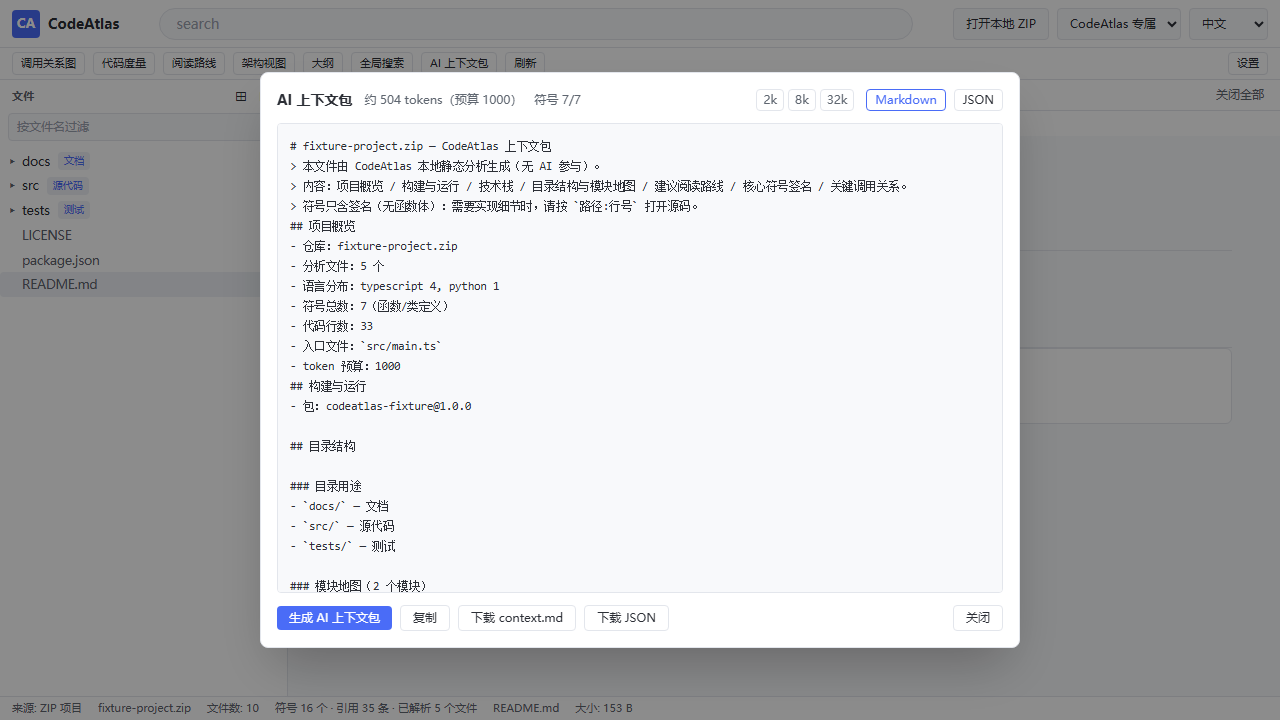
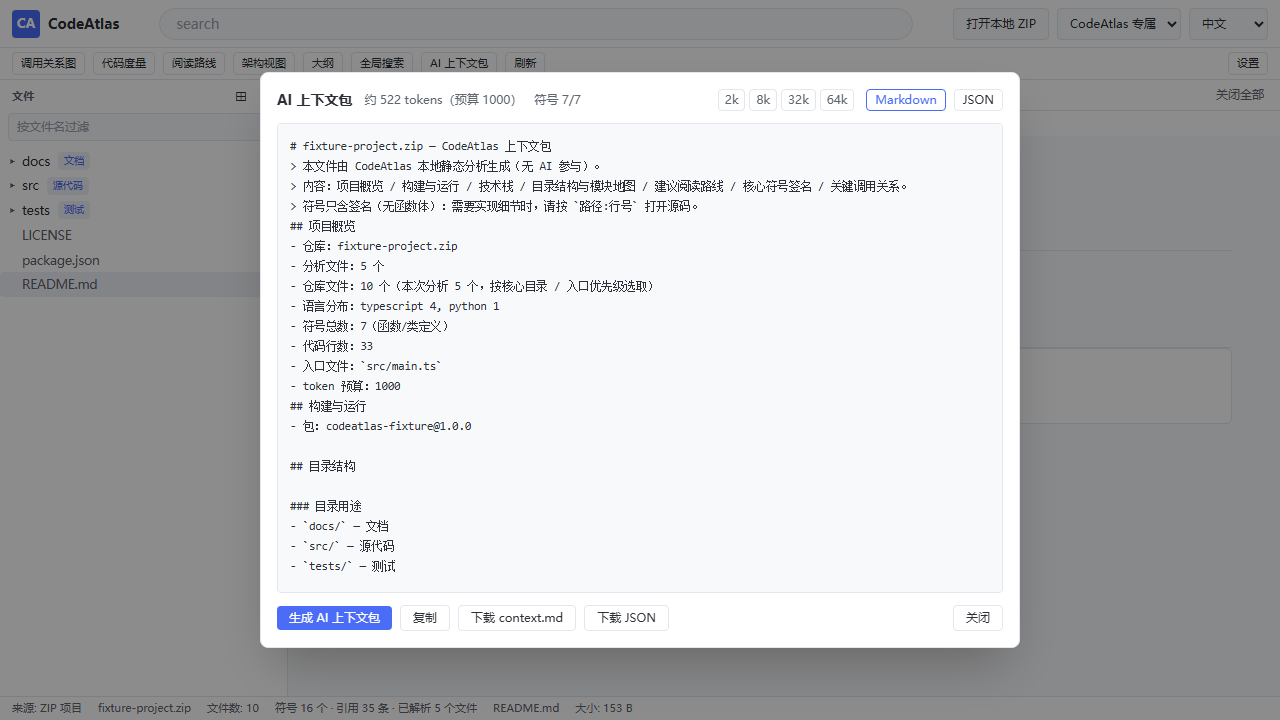
feat(scale): 超大项目适配（5000 文件 + 优先级选取 + 进度节流）
针对数万行 / 数千文件的系统级项目：
- 分析上限 2000 → 5000（全局搜索同步 5000）
- 新增 src/analysis/targets.ts：超限时按「核心目录 / 入口 / 非测试 / 非第三方」
  优先级选取，取代按文件树字典序硬截断（旧行为会整段漏掉后半段模块）；
  结果确定可复现；未超上限原样返回，小项目零行为变化
- 进度回调节流：数千文件不再逐文件 setState（旧实现触发数千次渲染），按 2% 粒度更新
- 上下文包：新增 64k 预算预设；模块地图 30 → 60、关键文件 40 → 80；
  概览标注「仓库文件 N（本次分析 M）」；新增 totalFiles 输入
- 单测 targets.test.ts（6 例）→ 280/280；E2E 31/31
- 文档：limits 2000/5000 同步，README/ACCEPTANCE/PLAN-2.0/CHANGELOG

Changed region(s): [[0.2188, 0.3667, 0.4062, 0.825], [0.5625, 0.1222, 0.6562, 0.1528]]

diff --git a/src/analysis/targets.ts b/src/analysis/targets.ts
@@ -1,0 +1,67 @@
+/**
+ * targets.ts —— 分析目标筛选（面向数万行 / 数千文件的系统级项目）
+ *
+ * 为什么需要：原实现用 `flattenFiles(tree).slice(0, MAX_ANALYSIS_FILES)`，
+ * 即"按文件树字典序取前 N 个"。超大项目一旦超过上限，会**整块漏掉后半段模块**
+ * （例如只剩 kernel/a-c，完全没有 net/、drivers/），比随机还糟。
+ *
+ * 策略（仅在超过上限时启用，小项目保持原样、零行为变化）：
+ *   1. 排除明显的第三方/产物目录（node_modules / third_party / vendor / build …），
+ *      把预算留给项目自身代码；
+ *   2. 按启发式打分排序，取前 N：
+ *      · 目录越浅越重要（入口与基础设施通常在浅层）
+ *      · src / lib / core / include / kernel / drivers / net 等核心目录加权
+ *      · main / index / app / server … 入口文件额外加权
+ *      · test / spec / fixtures / mocks 降权（理解系统时优先级低）
+ *   3. 输出确定（分数相同按路径字典序），保证同仓库多次分析结果一致。
+ */
+
+/** 第三方 / 构建产物 / 生成代码：超出预算时直接排除 */
+const VENDOR = /(^|\/)(node_modules|\.git|dist|build|out|target|coverage|__pycache__|\.venv|venv|third[_-]?party|vendor|external|deps|generated|gen)(\/|$)/i;
+
+/** 核心代码目录：加权 */
+const CORE = /(^|\/)(src|lib|libs|core|app|apps|include|internal|pkg|cmd|module|modules|kernel|drivers|arch|fs|net|mm|sys|base|framework|engine)(\/|$)/i;
+
+/** 测试 / 夹具：降权（不是不能分析，而是不该抢占理解系统结构的名额） */
+const TESTY = /(^|\/)(test|tests|spec|specs|__tests__|e2e|fixture|fixtures|mock|mocks|bench|benchmarks)(\/|$)/i;
+
+/** 入口文件：额外加权 */
+const ENTRY = /(^|\/)(main|index|app|server|cli|bootstrap|entry|init|start)\.[a-z0-9]+$/i;
+
+export interface TargetSelection {
+  /** 实际参与分析的文件（≤ cap） */
+  paths: string[];
+  /** 候选源码文件总数 */
+  total: number;
+  /** 因上限被舍弃的候选数 */
+  excluded: number;
+}
+
+/** 单个文件的启发式得分（越大越优先） */
+export function scorePath(path: string): number {
+  const depth = path.split('/').length - 1;
+  let score = 100 - depth * 4;
+  if (CORE.test(path)) score += 30;
+  if (ENTRY.test(path)) score += 40;
+  if (TESTY.test(path)) score -= 40;
+  return score;
+}
+
+/**
+ * 选取分析目标。
+ * 未超上限时**原样返回**（保证小项目行为与旧版完全一致）。
+ */
+export function selectAnalysisPaths(all: string[], cap: number): TargetSelection {
+  const total = all.length;
+  if (total <= cap) return { paths: all, total, excluded: 0 };
+
+  // 先排第三方；若排完反而不够 N（极端仓库），退回全量池，避免欠采样
+  const real = all.filter((p) => !VENDOR.test(p));
+  const pool = real.length >= cap ? real : all;
+
+  const paths = [...pool]
+    .sort((a, b) => scorePath(b) - scorePath(a) || a.localeCompare(b))
+    .slice(0, cap);
+
+  return { paths, total, excluded: total - paths.length };
+}

diff --git a/tests/unit/targets.test.ts b/tests/unit/targets.test.ts
@@ -1,0 +1,61 @@
+/**
+ * 单测：超大项目的分析目标筛选（targets.ts）
+ *
+ * 关键不变量：
+ *   · 未超上限 → 原样返回（小项目零行为变化）
+ *   · 超上限 → 排除第三方/产物目录，核心目录与入口优先，测试降权
+ *   · 结果确定（同输入同输出）
+ */
+
+import { describe, expect, it } from 'vitest';
+import { scorePath, selectAnalysisPaths } from '../../src/analysis/targets';
+
+describe('selectAnalysisPaths（超大项目目标筛选）', () => {
+  it('未超上限时原样返回（零行为变化）', () => {
+    const all = ['a.ts', 'b.ts'];
+    const r = selectAnalysisPaths(all, 10);
+    expect(r.paths).toEqual(all);
+    expect(r.excluded).toBe(0);
+  });
+
+  it('超上限时排除第三方与产物目录', () => {
+    const all = [
+      ...Array.from({ length: 5 }, (_, i) => `src/m${i}.ts`),
+      ...Array.from({ length: 5 }, (_, i) => `third_party/lib${i}/x.ts`),
+      ...Array.from({ length: 5 }, (_, i) => `node_modules/p${i}/y.ts`),
+    ];
+    const r = selectAnalysisPaths(all, 3);
+    expect(r.paths).toHaveLength(3);
+    for (const p of r.paths) expect(p).not.toMatch(/third_party|node_modules/);
+  });
+
+  it('核心目录与入口优先，测试降权', () => {
+    const all = [
+      'tests/a.test.ts',
+      'tests/b.test.ts',
+      'tests/c.test.ts',
+      'src/core/main.ts',
+      'src/lib/util.ts',
+      'docs/x.ts',
+    ];
+    const r = selectAnalysisPaths(all, 2);
+    expect(r.paths).toContain('src/core/main.ts');
+    expect(r.paths).not.toContain('tests/a.test.ts');
+  });
+
+  it('第三方过多时不欠采样：退化为全量池', () => {
+    const all = ['third_party/a.ts', 'third_party/b.ts', 'third_party/c.ts', 'src/d.ts'];
+    const r = selectAnalysisPaths(all, 3);
+    expect(r.paths).toHaveLength(3);
+  });
+
+  it('结果确定（同输入同输出）', () => {
+    const all = ['z/z.ts', 'a/a.ts', 'b/b.ts'];
+    expect(selectAnalysisPaths(all, 2).paths).toEqual(selectAnalysisPaths(all, 2).paths);
+  });
+
+  it('scorePath：入口 > 核心 > 测试', () => {
+    expect(scorePath('src/main.ts')).toBeGreaterThan(scorePath('src/util.ts'));
+    expect(scorePath('src/util.ts')).toBeGreaterThan(scorePath('tests/util.ts'));
+  });
+});

diff --git a/src/hooks/useCodeAnalysis.ts b/src/hooks/useCodeAnalysis.ts
@@ -26,6 +26,7 @@ import { toClassMermaid, toModuleMermaid, toMermaid } from '../analysis/mermaid'
 import { buildScopeIndex, type ScopeIndex } from '../analysis/scopeGraph';
 import { computeMetrics, healthScore, type FileMetrics } from '../analysis/metrics';
 import { MAX_ANALYSIS_FILES, MAX_GRAPH_NODES, MAX_SOURCE_BYTES } from '../analysis/limits';
+import { selectAnalysisPaths } from '../analysis/targets';
 import { buildReadingPath, type ReadingPath } from '../analysis/readingPath';
 import { buildModuleGraph, groupByLayer, type LayerGroup, type ModuleGraph } from '../analysis/moduleGraph';
 import { findCycles, type CycleReport } from '../analysis/cycles';
@@ -144,7 +145,11 @@ export function useCodeAnalysis() {
 
       const runId = ++runIdRef.current;
       const all = flattenFiles(tree);
-      const targets = all.filter((p) => langOfPath(p) !== null).slice(0, MAX_ANALYSIS_FILES);
+      const candidates = all.filter((p) => langOfPath(p) !== null);
+      // 超上限时按"核心目录 / 入口 / 非测试 / 非第三方"优先选取（小项目原样返回）
+      const targets = selectAnalysisPaths(candidates, MAX_ANALYSIS_FILES).paths;
+      /** 进度节流粒度：大项目下逐文件 setState 会造成数千次渲染 */
+      const progressStep = Math.max(10, Math.ceil(targets.length / 50));
 
       if (targets.length === 0) {
         signatureRef.current = signature;
@@ -210,7 +215,10 @@ export function useCodeAnalysis() {
             failedCount++;
           } finally {
             parsedCount++;
-            if (runId === runIdRef.current) {
+            if (
+              runId === runIdRef.current &&
+              (parsedCount % progressStep === 0 || parsedCount === targets.length)
+            ) {
               setState((prev) => ({
                 ...prev,
                 progress: { parsed: parsedCount, total: targets.length },

diff --git a/src/analysis/contextPack.ts b/src/analysis/contextPack.ts
@@ -27,6 +27,8 @@ export interface ContextPackInput {
   metrics?: FileMetrics[];
   /** 文件树（用于生成带说明的目录树） */
   treePaths: string[];
+  /** 仓库文件总数（可选）：用于在概览里说明"本次分析覆盖率"，超大项目必备 */
+  totalFiles?: number;
   /** 目录用途标注（来自 analysis/directories.ts） */
   dirPurposes?: Map<string, { key: string; confidence: 'rule' | 'heuristic' }>;
   /** 目录用途的中文/本地化文案（由 UI 传入 i18n 结果，保证离线且不硬编码语言） */
@@ -218,7 +220,7 @@ function renderFileTree(
   }
   const moduleLines = [...byModule.entries()]
     .sort((a, b) => b[1].length - a[1].length || a[0].localeCompare(b[0]))
-    .slice(0, 30)
+    .slice(0, 60)
     .map(([m, paths]) => {
       const key = [...paths]
         .sort((a, b) => (fileScores.get(b) ?? 0) - (fileScores.get(a) ?? 0))
@@ -315,6 +317,9 @@ export function generateContextPack(input: ContextPackInput): ContextPack {
     '## 项目概览',
     `- 仓库：${input.repoName}${input.branch ? ` @${input.branch}` : ''}`,
     `- 分析文件：${input.files.length} 个`,
+    input.totalFiles && input.totalFiles > input.files.length
+      ? `- 仓库文件：${input.totalFiles} 个（本次分析 ${input.files.length} 个，按核心目录 / 入口优先级选取）`
+      : '',
     `- 语言分布：${langs}`,
     `- 符号总数：${ranked.length}（函数/类定义）`,
     totalSloc !== undefined ? `- 代码行数：${totalSloc}` : '',
@@ -348,7 +353,7 @@ export function generateContextPack(input: ContextPackInput): ContextPack {
 
   const header = headerParts.filter(Boolean).join('\n');
 
-  const treeBlock = renderFileTree(input, fileScores, 40);
+  const treeBlock = renderFileTree(input, fileScores, 80);
 
   const readingBlock = renderReadingPath(input);
 

diff --git a/src/analysis/limits.ts b/src/analysis/limits.ts
@@ -9,8 +9,12 @@
  * 若后续加入增量分析（N4），这些常量会成为缓存分片粒度。
  */
 
-/** 单次分析参与解析的文件数上限 */
-export const MAX_ANALYSIS_FILES = 2000;
+/**
+ * 单次分析参与解析的文件数上限。
+ * 2000 → 5000（面向数万行 / 数千文件的系统级项目）；超出时不再按字典序硬截断，
+ * 而是由 `targets.ts` 按"核心目录 / 入口 / 非测试 / 非第三方"优先级选取。
+ */
+export const MAX_ANALYSIS_FILES = 5000;
 
 /** 参与解析的单个源文件体积上限（超出则跳过该文件，不影响其它文件） */
 export const MAX_SOURCE_BYTES = 1024 * 1024;
@@ -21,8 +25,11 @@ export const MAX_SOURCE_BYTES = 1024 * 1024;
  */
 export const MAX_GRAPH_NODES = 120;
 
-/** 全局搜索参与的文件数上限（与解析分开计数：搜索不建 AST，开销更低但更吃内存） */
-export const MAX_SEARCH_FILES = 2000;
+/**
+ * 全局搜索参与的文件数上限（与解析分开计数：搜索不建 AST，开销更低但更吃内存）。
+ * 与分析上限同步提到 5000。
+ */
+export const MAX_SEARCH_FILES = 5000;
 
 /** 全局搜索单文件体积上限：正则扫描会把文本整体驻留内存，故低于分析路径 */
 export const MAX_SEARCH_BYTES = 512 * 1024;

diff --git a/src/components/ContextPackDialog.tsx b/src/components/ContextPackDialog.tsx
@@ -98,7 +98,7 @@ export default function ContextPackDialog({
             role="group"
             aria-label={t('common:maxTokens')}
           >
-            {[2000, 8000, 32000].map((b) => (
+            {[2000, 8000, 32000, 64000].map((b) => (
               <button
                 key={b}
                 onClick={() => {

diff --git a/src/components/ProjectView.tsx b/src/components/ProjectView.tsx
@@ -265,6 +265,7 @@ export default function ProjectView({
           index: bundle.index,
           metrics: bundle.metrics,
           treePaths,
+          totalFiles: treePaths.length,
           dirPurposes,
           purposeLabels: dirPurposeLabels,
           maxTokens: usedBudget,

diff --git a/docs/ACCEPTANCE.md b/docs/ACCEPTANCE.md
@@ -33,7 +33,7 @@
 | 里程碑 | 验收标准 | 验证方式 | 结果 |
 |---|---|---|---|
 | **N1** 多语言与规模 | 12 个语言族的定义 / 跳转 / 调用图 / 度量可用 | 单测 `tests/unit/langs.test.ts`（41 例，含 9 种语言真实 AST 断言）；`npm run check:tree-sitter` 逐一解析 14 个语法包 + 共存复解析 | ✅ 14/14 |
-| N1 规模提升 | 2000 文件 / 1 MB / 调用图 120 节点 | 📄 `src/analysis/limits.ts`（上限集中定义） | ✅ |
+| N1 规模提升 | 5000 文件 / 1 MB / 调用图 120 节点；超限时按核心目录 / 入口优先级选取 | 📄 `src/analysis/limits.ts`（上限集中定义）、`src/analysis/targets.ts`（超限筛选，单测 `targets.test.ts`） | ✅ |
 | N1 语法包适配 | 不可用语言必须有实测结论，不能静默失败 | 📄 `scripts/check-tree-sitter.cjs` 的 `EXCLUDED`（Lua / Bash / Scala / Dart / Elm / QL 及原因） | ✅ |
 | **N2** 阅读路线 | 顺序确定可复现，入口优先 | 单测 `tests/unit/readingPath.test.ts`（9 例：角色判定、排序、编号、目录分组、确定性）；E2E `阅读路线：自动排序 + 入口标注 + 点击跳转` | ✅ |
 | N2 命令面板 / 符号搜索 | `Ctrl+K` / `Ctrl+T` 可用且能跳转 | E2E `navigation-panels.spec.ts` 前 3 例；模糊匹配单测 `fuzzy.test.ts`（11 例） | ✅ |
@@ -55,7 +55,7 @@
 | **N5③** 多项目工作区 | 同一窗口打开多个项目，顶部项目标签切换；各项目的浏览标签 / 分析结果 / 搜索结果互不影响；单项目时标签条隐藏（视觉与旧版一致） | 📄 `src/workspace/workspace.ts`（项目列表 / 激活 / 打开 / 关闭 store）、`src/hooks/useWorkspace.ts`、`src/components/ProjectView.tsx` / `ProjectTabs.tsx`、`src/hooks/useLauncher.ts`；单测 `tests/unit/workspace.test.ts`（8 例）；E2E `tests/e2e/workspace.spec.ts`（开两个 ZIP → 出现 2 个项目标签 → 切换 → 关闭回到 1） | ✅ |
 | N5③ 打开语义 | 首个（空）项目就地加载（不新增标签）；已有项目时再打开则追加标签并激活；加载中的项目不被后续打开抢占 | 单测 `workspace.test.ts` 的就地加载 / 追加 / 加载中不抢占用例 | ✅ |
 | **N6** 版本号 2.0.0 | package.json / Cargo.toml / Cargo.lock（codeatlas 包）/ tauri.conf.json / App.tsx 状态栏全部对齐 2.0.0 | 代码审查 + grep 五处 `1.0.0` → `2.0.0`；`npm run check:tree-sitter` 与 `tsc -b` 仍绿 | ✅ |
-| **N6** ABI 升级（web-tree-sitter 0.22 → 0.25） | 运行时与 14 个语法包 ABI 兼容，解析正常、共存复解析正常；前端 / Worker / Rust 编译全绿 | `npm run check:tree-sitter`（14 个语法包 + 共存复解析全绿，LANGUAGE_VERSION=15）；`tsc -b` 绿；单测 270/270；E2E 31/31；`npm run build:exe` 产出 CodeAtlas.exe（10.4 MB）+ CodeAtlas_2.0.0_x64-setup.exe（4.8 MB） | ✅ |
+| **N6** ABI 升级（web-tree-sitter 0.22 → 0.25） | 运行时与 14 个语法包 ABI 兼容，解析正常、共存复解析正常；前端 / Worker / Rust 编译全绿 | `npm run check:tree-sitter`（14 个语法包 + 共存复解析全绿，LANGUAGE_VERSION=15）；`tsc -b` 绿；单测 280/280；E2E 31/31；`npm run build:exe` 产出 CodeAtlas.exe（10.4 MB）+ CodeAtlas_2.0.0_x64-setup.exe（4.8 MB） | ✅ |
 | **N6** 在线场景 E2E | 本机无真实 GitHub 网络时，在线流程（加载仓库 / 搜索）仍被真实执行并断言 | E2E `tests/e2e/github-online.spec.ts`（`page.route` mock `api.github.com` / `raw.githubusercontent.com`，断言文件树 + README 渲染 + 搜索结果 `listbox` + combobox 键盘导航）；`network-whitelist.spec.ts` 在线用例改 mock 驱动、断言仅 GitHub 域，不再 `test.skip` | ✅ |
 | **N6** 可访问性 | 键盘导航 / ARIA / 对比度三项达标 | E2E `tests/e2e/a11y.spec.ts`（对话框焦点陷阱 + Esc + 焦点归还；命令面板 `aria-activedescendant` 随 `↑↓` 变化；文件树 roving tabindex + `tree`/`treeitem` 语义；四套主题次要文本对比度 ≥ WCAG AA 4.5:1）；📄 `src/hooks/useFocusTrap.ts`、`src/components/{CommandPalette,TopBar,FileTree,SettingsDialog,ContextPackDialog}.tsx`、`src/index.css` | ✅ |
 
@@ -65,7 +65,7 @@
 ## 复现命令
 
 ```bash
-# 单元测试（270 个用例，实际数量以 npm test 输出为准）
+# 单元测试（280 个用例，实际数量以 npm test 输出为准）
 npm test
 
 # E2E（11 个 spec / 31 个用例；截图生成到 docs/screenshots/）

diff --git a/CHANGELOG.md b/CHANGELOG.md
@@ -11,7 +11,7 @@
   - 导出规则按语言语义实现：JS 看 `export`、Python 看顶层非 `_` 前缀、Go 看首字母大写、Rust 看 `pub`、Java/C#/Kotlin/Swift 看可见性修饰符、PHP 默认 public（接口成员隐式 public）、C/C++ 看 `static` 与 `public:/private:` 区段、Ruby 看裸 `private`。
   - 调用形态覆盖各语言差异：Java 的 `new` 与构造器调用、C++ 的 `ns::fn()` 与 `new`、C# 的 member access、PHP 的四种调用节点、Ruby 的 `require` 识别为导入且不污染调用图。
   - 各语言的分支/循环/异常节点集合逐一实测后写入 `metrics.ts`（例如 Kotlin 与 Swift 的 `&&` 是独立节点类型、Ruby 的 `and`/`or` 是 `binary` 的运算符字段）。
-- **规模上限提升**：单次分析 400 → **2000** 个文件、单文件 256 KB → **1 MB**；调用图截断阈值 60 → **120** 节点；全局搜索 600 → 2000 个文件。上限集中定义在 `src/analysis/limits.ts`。
+- **规模上限提升**：单次分析 400 → **5000** 个文件（N1 先到 2000，2.0 收口再提到 5000）、单文件 256 KB → **1 MB**；调用图截断阈值 60 → **120** 节点；全局搜索 600 → **5000** 个文件。上限集中定义在 `src/analysis/limits.ts`。超限时不再按字典序硬截断，改由 `src/analysis/targets.ts` 按「核心目录 / 入口 / 非测试 / 非第三方」优先级选取（结果确定），避免整段模块被漏掉。
 - **tree-sitter 自检升级**：`npm run check:tree-sitter` 现在逐一验证全部 14 个语法包，并额外执行「多语法包共存后复解析」检查，可提前发现上游语法包回归。
 - **阅读路线（N2）**：基于依赖图 PageRank + 入/出度角色判定，自动给出「入口 → 枢纽 → 中间层 → 末端」的建议阅读顺序；文件树显示序号角标，面板可一键把路线写入 AI 上下文包。
 - **命令面板（N2）**：`Ctrl/Cmd+K` 统一入口（命令 / 文件 / 符号三类模糊搜索），`Ctrl/Cmd+T` 直达符号定义；模糊匹配自研（子序列 + 连续/词边界加权），零新依赖。
@@ -56,6 +56,11 @@
   - **JSON 限长**：`files` 由全量 `treePaths`（超大项目可达上万 token）改为最多 400 条 + `filesTotal`，避免架空 token 预算。
   - **预算预设**：上下文包对话框新增 2k / 8k / 32k 一键切换（持久化到配置并立即按新预算重生成），无需进设置页。
   - 新增 4 个单测（模块地图 / manifest 解析 / 入口文件 / JSON 限长），四要素章节与既有验收断言保持不变。
+- **超大项目适配（数万行 / 数千文件）**：
+  - **分析上限 2000 → 5000**（全局搜索同步 5000）；超限时由 `src/analysis/targets.ts` 按「核心目录 / 入口文件 / 非测试 / 非第三方」优先级选取，**不再按文件树字典序硬截断**（旧行为会整块漏掉后半段模块），结果确定可复现。
+  - **进度回调节流**：数千文件时不再每解析一个文件就 `setState`（旧实现会触发数千次渲染），改为按 2% 粒度更新。
+  - 上下文包：新增 **64k** 预算预设；模块地图上限 30 → **60** 个模块、关键文件 40 → **80** 个；概览标注「仓库文件 N 个（本次分析 M 个）」，超大项目可直接看出覆盖率。
+  - 单测 `tests/unit/targets.test.ts`（6 例：未超上限原样返回 / 排除第三方 / 核心与入口优先 / 不欠采样 / 确定性 / 打分单调）。
 - **可访问性（N6 完成）**：键盘导航 / ARIA / 对比度三项系统性补齐。
   - **对话框焦点陷阱**：新增 `useFocusTrap` hook，套用到设置 / 上下文包 / 命令面板三处 —— 打开时焦点移入并落在首个可聚焦元素，`Tab`/`Shift+Tab` 在对话框内循环不逃逸，`Esc` 关闭，关闭后焦点**归还**到打开前的元素；
   - **ARIA 语义**：命令面板补 `aria-modal` 与 `listbox`/`option`/`aria-activedescendant`；顶栏搜索框标注 `role="combobox"` + `aria-expanded`/`aria-controls`/`aria-activedescendant`；文件树改为规范 `tree`/`treeitem` + `aria-level`/`aria-selected`/`aria-expanded`；加载指示器加 `role="status"` 实时播报；

diff --git a/docs/PLAN-2.0.md b/docs/PLAN-2.0.md
@@ -24,7 +24,7 @@
 | 维度 | 1.0 限制 | 现状 |
 |---|---|---|
 | **语言** | 仅 JavaScript / TypeScript / TSX / Python | ✅ **已在 N1 解决**：扩至 12 个语言族（+Go / Rust / Java / C / C++ / C# / PHP / Kotlin / Swift / Ruby） |
-| **规模** | 单次分析 ≤ 400 文件、单文件 ≤ 256 KB | ✅ **已在 N1 解决**：2000 文件 / 1 MB |
+| **规模** | 单次分析 ≤ 400 文件、单文件 ≤ 256 KB | ✅ **已在 N1 / 2.0 收口解决**：5000 文件 / 1 MB（超限按优先级选取） |
 | **调用图** | > 60 节点按连接度截断为骨架图 | ✅ 阈值已提到 120（"全图 / 骨架图"切换仍待做，归入 N3） |
 | **数据源** | 仅 GitHub 在线 + `.zip`；**不支持文件夹拖入 / 本地目录 / 本地 Git 仓库 / GitLab / Gitee** | ✅ **本地目录 / 本地 Git 仓库已在 N5① 解决**（选目录或拖入文件夹即可）；GitLab / Gitee 仍待做 |
 | **持久化** | 只缓存原始文件内容；**分析结果（符号索引/度量/图）每次重算** | ✅ **已在 N4 解决**：分析结果按内容哈希持久化，未变文件复用缓存（派生图仍每次重建） |
@@ -198,7 +198,7 @@
 | 多语言解析质量 | 不同语言 AST 结构差异大，符号提取规则需逐语言适配 | 每语言独立单测 + fixture |
 | 本地目录实时变更 | 文件夹打开后文件可能被外部修改 | 引入文件监听 + 手动刷新兜底 |
 | 分析结果缓存失效 | 仓库更新后旧索引失效 | 按 commit/内容哈希版本化（沿用现有 cache 模式） |
-| 规模提升带来内存压力 | 2000 文件全量 AST 驻留 | Worker 并行 + 按需解析 + 内存上限告警 |
+| 规模提升带来内存压力 | 5000 文件全量 AST 驻留 | Worker 并行 + 按需解析 + 增量缓存 + 超限优先级选取 |
 | macOS 签名/公证 | 无 Apple 开发者账号则 Gatekeeper 拦截 | 2.1 先发未签名版 + 文档说明"右键打开" |
 | 本地模型输出不可靠 / 显存占用 | Ollama 模型可能给出错误解释或占用大量内存 | 默认关闭 + 强标注"由本地模型生成" + 只做"先检索后解释"而非自由生成 + 可随时关闭 |
 
